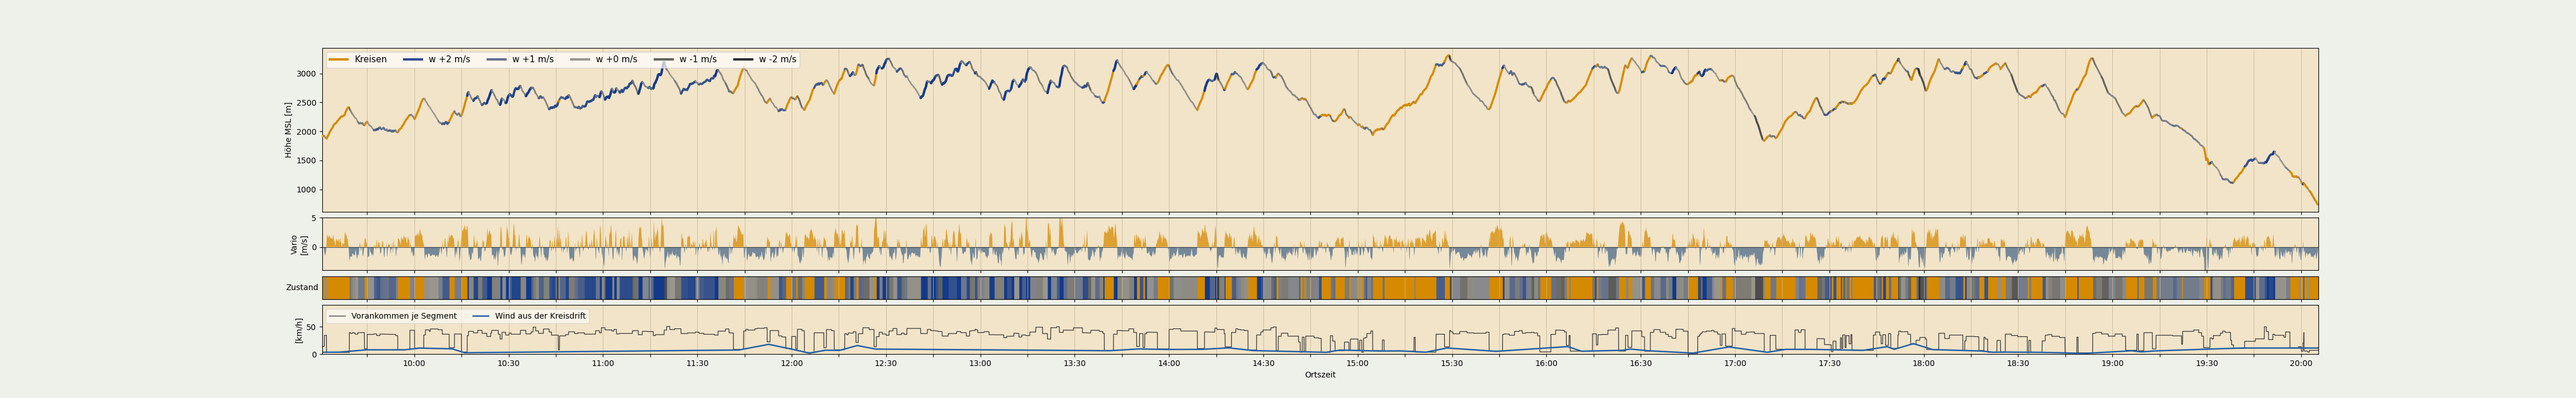
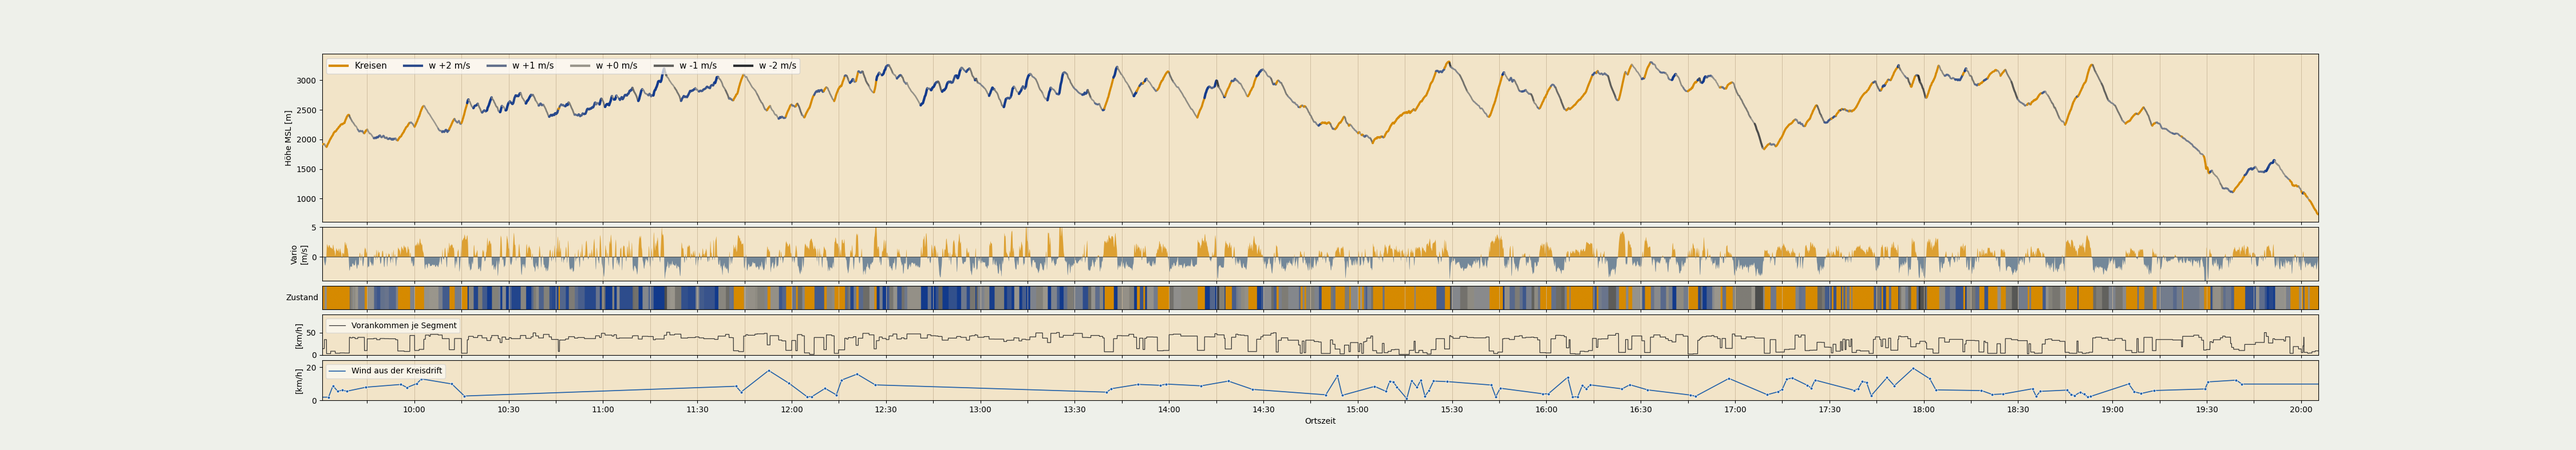
Add files via upload
wind profile through the climb; docs match the code; examples rebuilt

- flightstates: a long climb is cut into pieces of ~4 full turns, each
  with its own drift (measured: 2.2 km/h per 100 m of climb, 7x the noise)
- chart: wind on its own row and scale, one dot per sample
- polarmaker: header text names three output files, sidecar covers every
  value, --min help no longer suggests a choice, --join never overwrites
  an input dump
- README: shipment names all four files; sizes and check values
  re-measured on 1488 flights
- all examples (polar files, example flight line, plate, verify picture)
  rebuilt from the same archive with the current scripts

diff --git a/flightstates.py b/flightstates.py
@@ -33,7 +33,9 @@ Line format (one flight, one line, fields separated by semicolons):
 The END of a segment is the BEGINNING of the next — which is why it is not
 written twice. Only the last point of the flight needs an entry of its own.
 
-The wind belongs to the thermal and is written only there, measured by the
+The wind belongs to the circling and is written only there. A long climb
+is cut into pieces of about 4 full turns (K_TURNS_PIECE), each with its own
+drift — the wind profile through the climb, not one mean. Measured by the
 method of thermal_strategy.py: at least 1.5 full turns, at least 30 s, four
 fixes trimmed at each end (entry and exit are not circling), drift above
 40 km/h discarded. If the conditions are not met, both wind fields stay empty;
@@ -108,6 +110,19 @@ COORD_DECIMALS  = 5       # decimals of the position (5 = about 1 m, as in kk7)
 W_MIN_TURNS = 1.5
 W_MIN_DUR  = 30     # s
 W_TRIM       = 4      # Fixes an jedem Ende abschneiden
+K_TURNS_PIECE = 4   # full turns per circling piece: a long climb is cut into
+                    # pieces of ~4 turns, each a wind sample of its own
+                    # height — the wind profile through the climb instead of
+                    # one mean. Measured on 1628 flights: the drift changes
+                    # by 2.2 km/h per 100 m of climb in the median (noise
+                    # reference, odd vs even turns: 0.3), and the kink of the
+                    # circle-centre path follows that change (r = 0.87) but
+                    # is the size of the thermal's own wobble (~45 m), so
+                    # kinks cannot be located reliably in a single climb;
+                    # fixed pieces of 4 turns keep the drift noise of one
+                    # piece (~1.4 km/h) well below the signal, and the
+                    # profile emerges from many pieces. Runs under 8 turns
+                    # stay whole.
 W_MAX_DRIFT  = 40.0   # km/h
 W_SMOOTH      = 600    # s, smoothing of the wind series between measurements
 
@@ -401,11 +416,31 @@ def own_sink(df, wx, wy, polars, glider):
     return np.interp(np.clip(eig, sp[0], sp[-1]), sp, si), src, eig
 
 
-def to_runs(df, circ, hl=None, min_s=MIN_RUN_S):
+def turn_pieces(a, b, dh):
+    """Cut a circling run [a, b] into pieces of about K_TURNS_PIECE full
+    turns each, boundaries on full turns; fewer than 2*K_TURNS_PIECE turns
+    -> one piece."""
+    kum = np.abs(dh[a:b + 1]).cumsum()
+    turns = float(kum[-1]) / 360.0
+    n = int(turns // K_TURNS_PIECE)
+    if n < 2:
+        return [(a, b)]
+    schnitt = [a]
+    for k in range(1, n):
+        j = a + int(np.searchsorted(kum, turns * k / n * 360.0))
+        schnitt.append(min(max(j, schnitt[-1] + 1), b))
+    schnitt.append(b + 1)
+    return [(schnitt[i], schnitt[i + 1] - 1) for i in range(n)]
+
+
+def to_runs(df, circ, hl=None, min_s=MIN_RUN_S, dh=None):
     """Runs of equal state.
 
-    The track is first split into circling and straight — a thermal stays
-    whole and does not fall apart at every dip in the climb.
+    The track is first split into circling and straight — a thermal does
+    not fall apart at every dip in the climb. A long climb is then cut into
+    pieces of K_TURNS_PIECE full turns (turn_pieces), each carrying its own
+    drift: the wind profile through the climb. Without dh, circling stays
+    one piece.
 
     A straight run is then divided WHERE THE AIR CHANGES: Douglas-Peucker on
     the air-corrected height hl (height minus the glider's own accumulated
@@ -424,8 +459,9 @@ def to_runs(df, circ, hl=None, min_s=MIN_RUN_S):
     t = np.arange(len(h), dtype=float)
     out = []
     for a, b, k in _merge(circ.astype(np.int8), min_s):
-        if k:                          # circling: one piece, K
-            out.append((a, b, 0))
+        if k:                          # circling: pieces of ~4 turns, K
+            for a2, b2 in (turn_pieces(a, b, dh) if dh is not None else [(a, b)]):
+                out.append((a2, b2, 0))
             continue
         if b - a < 2:
             out.append((a, b, 1))
@@ -454,7 +490,7 @@ def segments(path, polars=None):
     schritt = np.zeros(len(df))
     schritt[1:] = np.hypot(np.diff(x), np.diff(y))
     out = []
-    for a, b, k in to_runs(df, circ, hl):
+    for a, b, k in to_runs(df, circ, hl, dh=dh):
         kind = KINDS[k]
         s = dict(kind=kind, t=int(round(t0 + a)) % 86400, h=int(round(h[a])),
                  la=float(la[a]), lo=float(lo[a]), a=a, b=b)

diff --git a/chart.py b/chart.py
@@ -82,8 +82,8 @@ def main():
             (la[s["b"]] - la[s["a"]]) * 111132) / d
 
     DPI = 100
-    hr = ([4.2, 5, 1.6, .7, 1.5] if a.raw else [5, 1.6, .7, 1.5])
-    H = int(a.width * (0.205 if a.raw else 0.155))
+    hr = ([4.2, 5, 1.6, .7, 1.2, 1.2] if a.raw else [5, 1.6, .7, 1.2, 1.2])
+    H = int(a.width * (0.225 if a.raw else 0.175))
     fig, ax = plt.subplots(len(hr), 1, figsize=(a.width / DPI, H / DPI), dpi=DPI,
                            sharex=True, gridspec_kw=dict(height_ratios=hr, hspace=.16 if a.raw else .08))
     fig.patch.set_facecolor("#eef0ea")
@@ -126,15 +126,23 @@ def main():
                  extent=[std[0], std[-1], 0, 1])
     ax[2].set_yticks([]); ax[2].set_ylabel(w["zust"], rotation=0, ha="right", va="center")
     ax[3].plot(std, vk, color="#333", lw=.9, label=w["vk"])
-    ax[3].plot(std, wind, color="#1f5fa8", lw=1.8, label=w["wl"])
     ax[3].set_ylim(0, 90); ax[3].set_ylabel(w["wind"])
-    ax[3].legend(loc="upper left", fontsize=10, ncols=2, framealpha=.6)
+    ax[3].legend(loc="upper left", fontsize=10, framealpha=.6)
+    # the wind on its own scale, one dot per sample: a long climb carries
+    # several (one per piece of ~4 turns) — the profile through the climb
+    ax[4].plot(std, wind, color="#1f5fa8", lw=1.2, label=w["wl"])
+    if len(pt) >= 2:
+        ax[4].plot(np.interp(pt, np.arange(n), std), pv, "o", ms=3.6,
+                   color="#1f5fa8", mec="white", mew=.6)
+    ax[4].set_ylim(0, max(10.0, float(np.nanmax(pv)) * 1.25 if len(pv) else 10.0))
+    ax[4].set_ylabel(w["wind"])
+    ax[4].legend(loc="upper left", fontsize=10, framealpha=.6)
     ticks = np.arange(np.ceil(std[0] * 4) / 4, std[-1], .25)
     for x in ax:
         x.set_xticks(ticks)
-    ax[3].set_xticklabels([f"{int(t):02d}:{int(round((t % 1) * 60)):02d}"
+    ax[4].set_xticklabels([f"{int(t):02d}:{int(round((t % 1) * 60)):02d}"
                            if abs((t * 2) % 1) < 1e-6 else "" for t in ticks], fontsize=10)
-    ax[3].set_xlabel(w["zeit"])
+    ax[4].set_xlabel(w["zeit"])
     fig.savefig(a.out, facecolor=fig.get_facecolor())
     print(a.out, a.width, H, len(segs), "segments")
 

diff --git a/README.md b/README.md
@@ -5,7 +5,7 @@ of segments. Two kinds, everything else is a number:
 
 | Code | Segment | carries |
 |---|---|---|
-| `K` | circling | turn count, drift = **the wind** |
+| `K` | circling | turn count, drift = **the wind**; a long climb is several pieces of ~4 turns, each with its own drift |
 | `G` | straight | `w` = **vertical movement of the air** (m/s, own sink removed), airspeed, path |
 
 The unit is the second, not the thermal. So the air that carries a pilot
@@ -76,7 +76,7 @@ steps above are all there is to do, and **four files** come out:
 | `polars.csv` | one small table — one line per glider type |
 | `polars_stat.csv` | the statistics behind it: every band of every glider, confidence interval, kept or discarded with reason |
 | `polars.npz` | the raw per-flight histograms behind the statistics — pure counts |
-| `states.txt` | one line per flight; with `--delta` and `xz -6` about 364 bytes per flying hour |
+| `states.txt` | one line per flight; with `--delta` and `xz -6` about 440 bytes per flying hour |
 
 Send all four — the recipient needs the statistics to judge, and if need
 be override, every polar decision; the header of `states.txt` records the
@@ -122,9 +122,12 @@ P;NIVIUK Artik 6;g;20230522;k27039,1920,4637603,802630,0.6,,|R45,-3,-160,42,-0.2
 ## How it decides
 
 Per second: circling if the summed heading change over a centred 20 s window
-exceeds 60° (checked against hand-marked flights: 94.7 % agreement). Wind per
-thermal from the circling drift (≥1.5 turns, ≥30 s, endpoints trimmed,
-≤40 km/h), interpolated between thermals. Straight stretches are cut on the
+exceeds 60° (checked against hand-marked flights: 94.7 % agreement). Wind
+from the circling drift (≥1.5 turns, ≥30 s, endpoints trimmed, ≤40 km/h);
+a long climb is cut into pieces of about 4 full turns, each a wind sample
+of its own height — measured on 1628 flights, the drift changes by
+2.2 km/h per 100 m of climb in the median, seven times the noise, so one
+mean per climb would throw that profile away. Straight stretches are cut on the
 **air-corrected height** (height minus accumulated own sink at the flown
 airspeed) and the ground plan — joint Douglas-Peucker, 30 m height, 60 m
 position. Boundaries are pure geometry; no label enters the cutting.
@@ -137,6 +140,7 @@ All thresholds are constants at the top of `flightstates.py`:
 | height smoothing | Savitzky-Golay 15 s | wind sample | ≥1.5 turns, ≥30 s, ≤40 km/h |
 | tolerances | 30 m height, 60 m position | wind smoothing | 600 s |
 | minimum run | 20 s | recorder gaps >60 s | longest stretch kept |
+| circling piece | ~4 full turns | | |
 | coordinates | 5 decimals (~1 m) | altitude spikes >500 m | dropped |
 
 ## Check
@@ -147,8 +151,8 @@ python3 chart.py  flight.IGC --out plate.png
 ```
 
 `verify.py` draws the flight twice — from the IGC, and from the text line
-alone — and prints the errors. Typical: height mean 13 m (90 % under 31 m),
-position mean 39 m (90 % under 88 m), every `w` and all time shares identical.
+alone — and prints the errors. Typical: height mean 9 m (90 % under 22 m),
+position mean 32 m (90 % under 68 m), every `w` and all time shares identical.
 
 `chart.py` draws one flight as a plate like the picture below. Options:
 `--raw` adds the untouched trace on top, `--language en`, `--title TEXT`.
@@ -158,9 +162,9 @@ Both scripts expect `polars.csv` and `flightstates.py` beside them.
 
 ## Size and time
 
-Measured on 774 alpine flights (2 883 h): **9.2 bytes per segment, 364 bytes
-per flying hour** (`--delta`, `xz -6`); steps 2 and 3 together ~30 ms per flying
-hour per core. A world archive of ~950 000 flights: **1–2 GB compressed,
+Measured on 1 488 alpine flights (7 720 h): **8.8 bytes per segment, 440 bytes
+per flying hour** (`--delta`, `xz -6`); steps 2 and 3 together ~35 ms per flying
+hour per core. A world archive of ~950 000 flights: **about 2 GB compressed,
 about one core-day** — an afternoon on eight cores. Lines are independent;
 process the file line by line.
 
